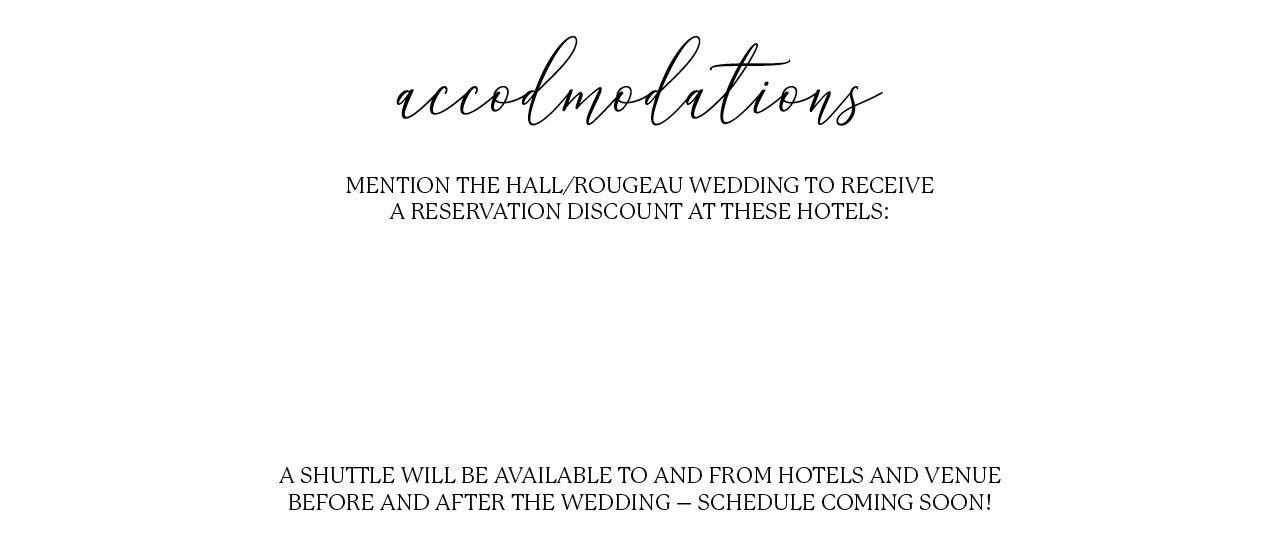
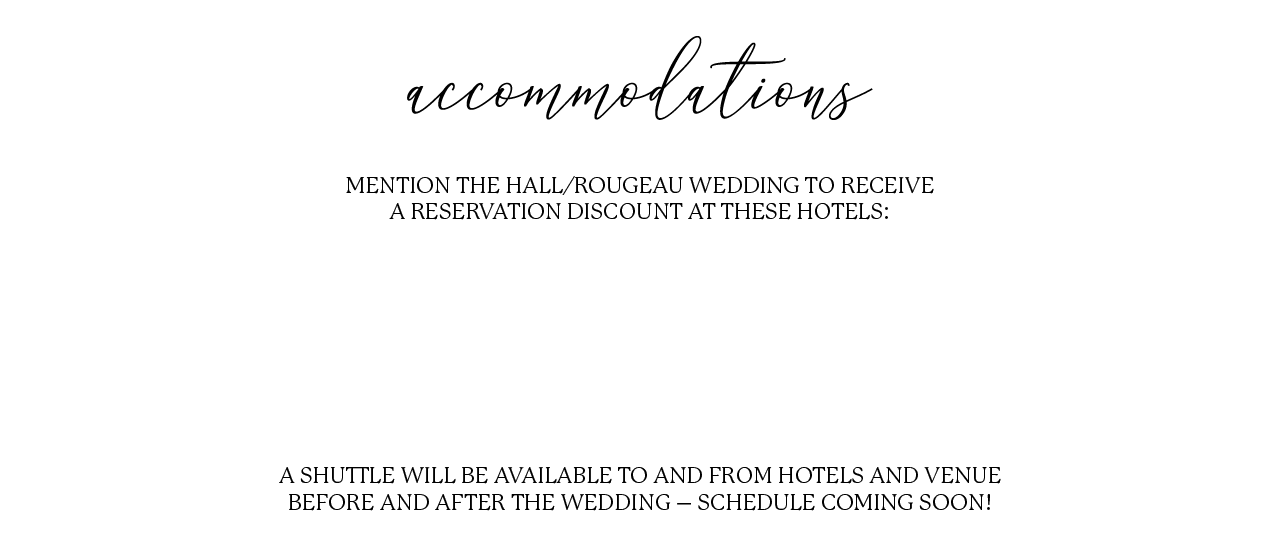
update header to fit navbar on main view, update registry w/ new images

Changed region(s): [[0.3125, 0.0618, 0.6875, 0.2164], [0.4375, 0.0618, 0.4688, 0.0927]]

diff --git a/src/pages/index.js b/src/pages/index.js
@@ -8,7 +8,11 @@ import hotel1 from '../img/hotel-button1.png'
 import hotel2 from '../img/hotel-button2.png'
 import hotel3 from '../img/hotel-button3.png'
 import hotel4 from '../img/hotel-button4.png'
-import zolaImage from '../img/zola-logo-black.png'
+import registrySection from '../img/registry.png'
+import registry1 from '../img/registry-button1.png'
+import registry2 from '../img/registry-button2.png'
+import registry3 from '../img/registry-button3.png'
+import registry4 from '../img/registry-button4.png'
 
 export default class IndexPage extends React.Component {
   render() {
@@ -63,13 +67,32 @@ His et justo partem ponderum. Eu tollit utroque singulis cum. Ne audire albucius
               </div>
             </div>
             <div id='registry' className="">
-              <a href="https://www.zola.com/registry/rougeauwedding">
-                <figure className="">
-                  <img className="zolaImage" src={zolaImage} />
-                </figure>
-              </a>
+              <figure className="">
+                <img className="registryImage" src={registrySection} />
+              </figure>
+              <div className="registryButtons">
+                <a href="https://www.zola.com/registry/rougeauwedding/">
+                  <div className="hotelButton__right hotelButton__container">
+                    <figure className="hotelButton__two hotelButton">
+                      <img className="" src={registry2} />
+                    </figure>
+                    <figure className="hotelButton__four hotelButton">
+                      <img className="" src={registry4} />
+                    </figure>
+                  </div>
+                </a>
+                <a href="tgt.gifts/4fbf8b183e754c99885b0c12a8b528c7">
+                  <div className="hotelButton__left hotelButton__container">
+                    <figure className="hotelButton__one hotelButton">
+                      <img className="" src={registry1} />
+                    </figure>
+                    <figure className="hotelButton__three hotelButton">
+                      <img className="" src={registry3} />
+                    </figure>
+                  </div>
+                </a>
+              </div>
             </div>
-            
             
           </div> 
         </div>

diff --git a/src/layouts/wedding.css b/src/layouts/wedding.css
@@ -71,7 +71,7 @@ div.admin-bg {
 }
 
 .header__image_container {
-  height: 100vh;
+  height: 90vh;
   width: auto;
   overflow: hidden;
   margin: auto;
@@ -91,7 +91,7 @@ div.admin-bg {
 .header__text {
   font: 400 130px/0.8 'Great Vibes', Helvetica, sans-serif;
   text-shadow: 2px 2px 0px rgba(0,0,0,0.2), 4px 4px 8px rgba(0,0,0,0.2); 
-  width: 75%;
+  width: 60%;
   position: absolute;
   top: 80%;
   left: 50%;
@@ -99,13 +99,8 @@ div.admin-bg {
   text-align: center;
 }
 
-.header__text .main_text {
-  font-size: 8vw;
-  margin-bottom: 2vw;
-}
-
-.header__text .sub_text {
-  font-size: 5vw;
+.header__text img {
+  max-height: 300px;
 }
 
 nav {
@@ -116,6 +111,8 @@ nav {
   z-index: 1;
   max-width: 1395px;
   margin: auto;
+  height: 10vh;
+  max-height: 10vh;
 }
 
 body.fixed-nav nav {
@@ -188,14 +185,24 @@ nav a:hover {
   margin-right: 0;
 }
 
-#accommodations {
+#accommodations, #registry {
   position: relative;
 }
+
 
 .hotelButtons {
   width: 75%;
   position: absolute;
   top: 60%;
+  left: 50%;
+  transform: translate(-50%, -50%);
+  text-align: center;
+}
+
+.registryButtons {
+  width: 75%;
+  position: absolute;
+  top: 66%;
   left: 50%;
   transform: translate(-50%, -50%);
   text-align: center;
